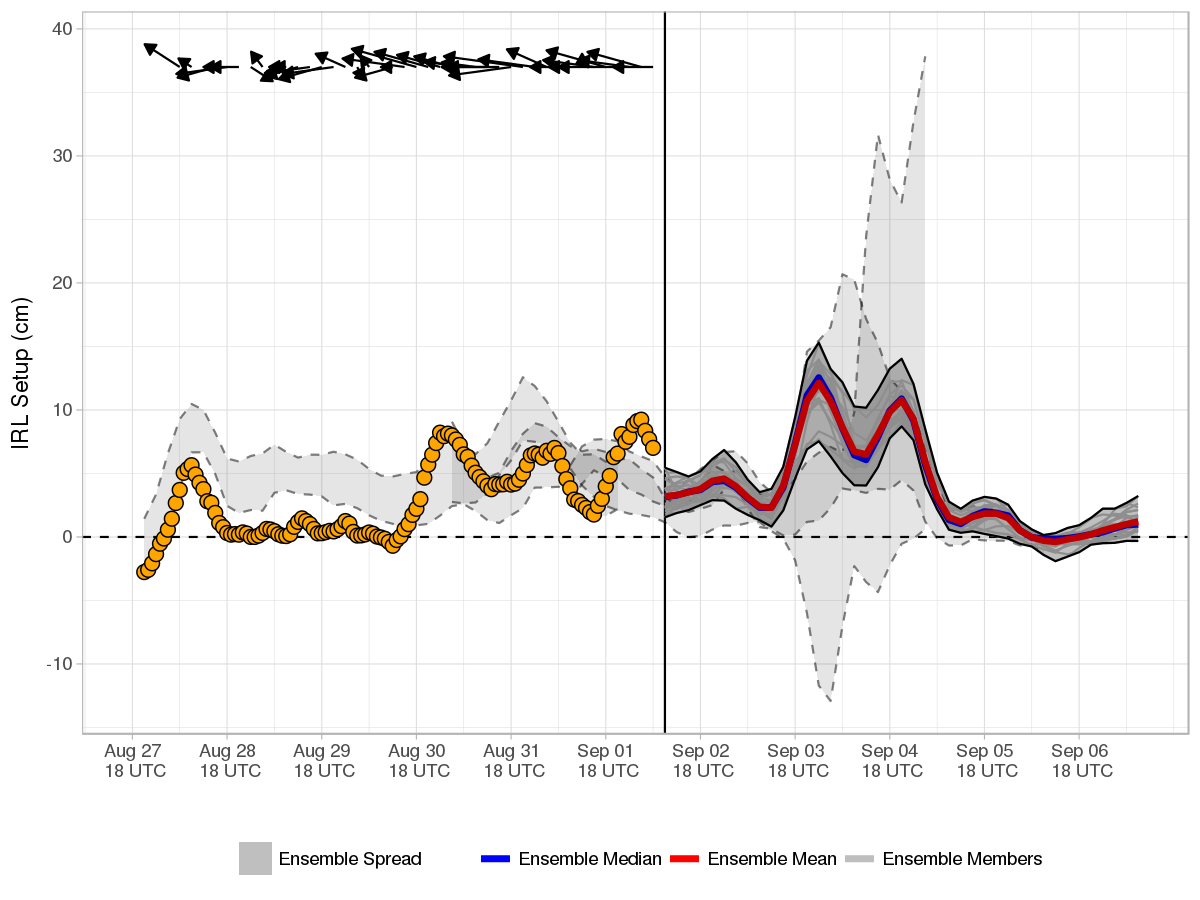
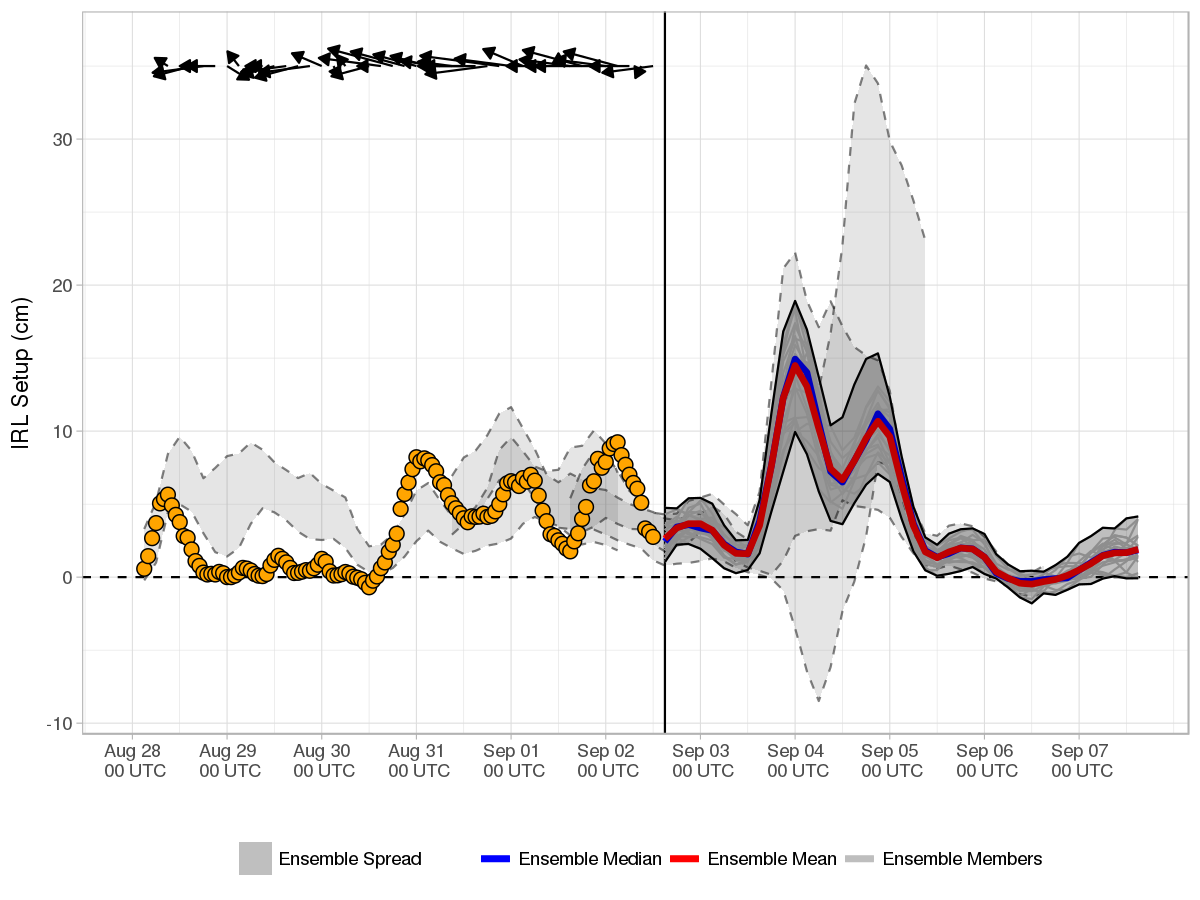
Forecast Update

diff --git a/docs/index.md b/docs/index.md
@@ -1,9 +1,9 @@
-Current Forecast 2018-09-02, Cycle 00 UTC
+Current Forecast 2018-09-02, Cycle 06 UTC
 -----------------------------------------
 
 [![](img/raw_setup.png)](https://fit-winds.github.io/IRLSetup/img/raw_setup.png)
 
-> Forecast valid 2018-09-02 02:22:24.
+> Forecast valid 2018-09-02 08:27:35.
 
 Explanation
 -----------
@@ -23,7 +23,7 @@ Ensemble Forecast System
 cycles. Calculation of the IRL setup is performed shortly after a new
 GEFS cycle is made available on the [data access
 link](http://www.ftp.ncep.noaa.gov/data/nccf/com/gens/prod/). The
-current cycle 2018-09-02 00 UTC 0.5° GEFS mean and median forecasts of
+current cycle 2018-09-02 06 UTC 0.5° GEFS mean and median forecasts of
 setup are represented by the red and blue curves, respectively. Ensemble
 spread from the current and three previous GEFS runs are shaded grey and
 bounded by solid and dashed curves, respectively.
